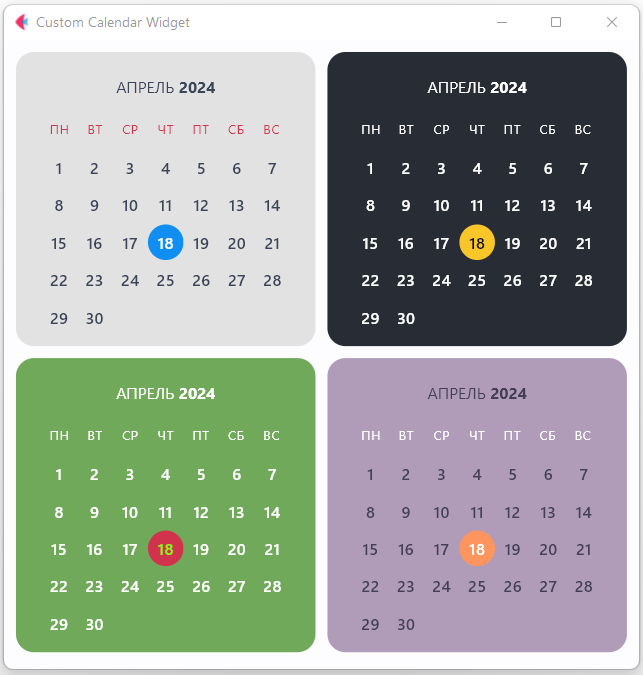
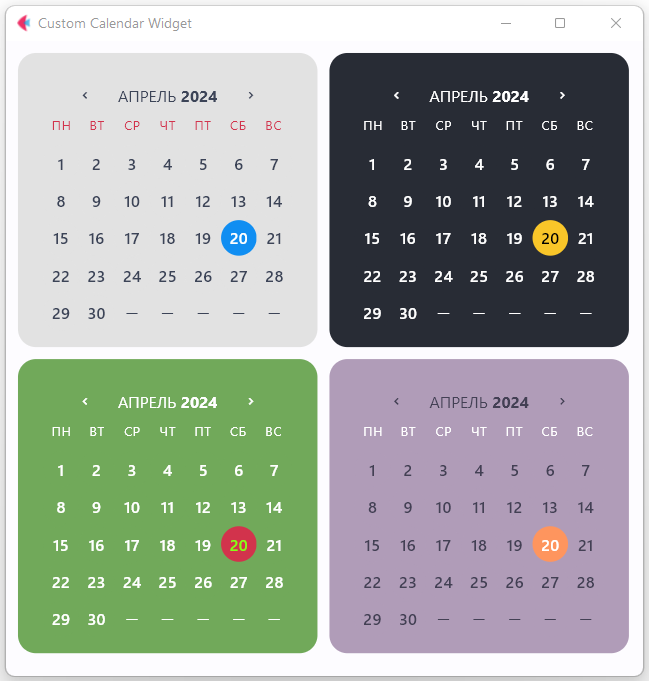
Я календарь переверну... теперь можно перевернуть календарь

diff --git a/CustomCalendar.py b/CustomCalendar.py
@@ -1,5 +1,6 @@
 import datetime, calendar
 import flet
+import copy
 
 
 class CustomCalendar(flet.Container):
@@ -8,18 +9,18 @@ class CustomCalendar(flet.Container):
     _current_day = datetime.date.today().day
     _first_day_in_month, _last_day_in_month = calendar.monthrange(_current_year, _current_month)
     _day_of_week = {0: "ПН", 1: "ВТ", 2: "СР", 3: "ЧТ", 4: "ПТ", 5: "СБ", 6: "ВС"}
-    _months = {0: "Январь", 1: "Февраль", 3: "Март", 4: "АПРЕЛЬ", 5: "Май", 6: "Июнь",
-               7: "Июль", 8: "Август", 9: "Сентябрь", 10: "Октябрь", 11: "Ноябрь", 12: "Декабрь"}
+    _months = {1: "ЯНВАРЬ", 2: "ФЕВРАЛЬ", 3: "МАРТ", 4: "АПРЕЛЬ", 5: "МАЙ", 6: "ИЮНЬ",
+               7: "ИЮЛЬ", 8: "АВГУСТ", 9: "СЕНТЯБРЬ", 10: "ОКТЯБРЬ", 11: "НОЯБРЬ", 12: "ДЕКАБРЬ"}
 
     def __init__(self, width: int, bgcolor="#e2e2e2",
                  font_color="#3c4457", font_color_accent="#ffffff",
                  accent_color="#108ef2", header_font_color="#d2334c",
-                 hover_color = "#eeeeee", border_radius=15):
+                 hover_color="#eeeeee", border_radius=15):
         super().__init__(
             # ширина виджета задаётся пользователем
             width=width,
-            # высота считается автоматом, header = width / 7, row = width / 8
-            # весь календарь это таблица 2 заголовочные строки + 5 строк на даты, 0.5 на отступы
+            # высота считается автоматом, заголовок = width / 7, строка = width / 8
+            # весь календарь это таблица 2 заголовочные строки + 5 строк на даты, ~0.5 на отступы
             height=width / 8 * 5 + width / 7 * 2.5,
             border_radius=border_radius,
             padding=flet.padding.only(0, width * 0.08, 0, 0),
@@ -35,24 +36,70 @@ class CustomCalendar(flet.Container):
         self.content = self._draw_base()
 
     def _draw_base(self):
+        day_container = flet.Container(
+            content=flet.Text(
+                value="",
+                text_align=flet.TextAlign.CENTER,
+                weight=flet.FontWeight.W_500,
+                size=self.font_size + 2,
+                color=self.font_color
+            ),
+            width=(self.width - self.width * 0.05) / 8,
+            height=self.width / 8,
+            alignment=flet.alignment.center,
+            shape=flet.BoxShape.CIRCLE,
+            on_hover=self._on_hover_date,
+            data=""
+        )
         custom_calendar = flet.Column(
             controls=[
-                # заголовок с названием месяца и годом
+                # заголовок с названием месяца и годом, кнопками для перелистывания календаря
                 flet.Row(
                     controls=[
-                        flet.Text(
-                            value=str(self._months.get(self._current_month)) + " ",
+                        flet.Container(flet.IconButton(
+                            icon=flet.icons.KEYBOARD_ARROW_LEFT_SHARP,
+                            height=self.width / 11,
+                            width=self.width / 7,
+                            icon_size=self.font_size,
+                            padding=0,
+                            icon_color=self.font_color,
+                            data="left_flip",
+                            on_click=self._flip_calendar
+                        ),
+                            height=self.width / 8,
+                            alignment=flet.alignment.center
+                        ),
+                        flet.Container(flet.Text(
+                            # value=str(self._months.get(self._current_month)) + " ",
+                            value="",
                             spans=[
-                                flet.TextSpan(str(self._current_year),
+                                flet.TextSpan("",
                                               flet.TextStyle(weight=flet.FontWeight.BOLD))
                                 ],
                             weight=flet.FontWeight.W_400,
                             color=self.font_color,
                             size=self.font_size + 2,
-                            height=self.width / 7,
-                        )
+                            text_align=flet.alignment.center,
+                        ),
+                            height=self.width / 8,
+                            alignment=flet.alignment.center
+                        ),
+                        flet.Container(flet.IconButton(
+                            icon=flet.icons.KEYBOARD_ARROW_RIGHT_SHARP,
+                            icon_size=self.font_size,
+                            height=self.width / 10,
+                            width=self.width / 7,
+                            padding=0,
+                            data="right_flip",
+                            on_click=self._flip_calendar,
+                            icon_color=self.font_color
+                        ),
+                            height=self.width / 8,
+                            alignment=flet.alignment.center
+                        ),
                     ],
-                    alignment=flet.MainAxisAlignment.CENTER
+                    alignment=flet.MainAxisAlignment.CENTER,
+                    vertical_alignment=flet.CrossAxisAlignment.START,
                 ),
                 # заголовок с днями недели
                 flet.Row(
@@ -71,7 +118,13 @@ class CustomCalendar(flet.Container):
                     height=self.width / 10,
                     # убирает лишние отступы между элементами Row
                     spacing=0
-                )
+                ),
+                # пять строк на даты, создаём их и распаковываем в controls
+                *[flet.Row(
+                    controls=[copy.deepcopy(day_container) for i in range(0, 7)],
+                    alignment=flet.MainAxisAlignment.CENTER,
+                    spacing=0
+                ) for i in range(0, 5)],
             ],
             # убирает лишние отступы между элементами Column
             spacing=0,
@@ -79,55 +132,58 @@ class CustomCalendar(flet.Container):
         self._fill_dates(custom_calendar)
         return custom_calendar
 
-    def _fill_dates(self, custom_calendar: flet.Column):
+    def _fill_dates(self, custom_calendar):
         day_counter = 1
-        day_bgcolor = self.bgcolor
-        day_font_color = self.font_color
-        day_data="just_a_day"
-
-        for row in range(0, 5):
-            current_row = flet.Row(alignment=flet.MainAxisAlignment.CENTER, spacing=0)
-            # if row == 4:
-            #     current_row.alignment = flet.MainAxisAlignment.START
-
-            for day in range(0, 7):
-                if day_counter == self._current_day:
-                    # для выделения текущего дня в календаре
-                    day_bgcolor = self.accent_color
-                    day_font_color = self.font_accent_color
-                    day_data="today"
-                if row == 0 and day < self._first_day_in_month:
-                    current_row.controls.append(flet.Container(width=(self.width - self.width * 0.05) / 8))
+        self._first_day_in_month, self._last_day_in_month = calendar.monthrange(self._current_year, self._current_month)
+        custom_calendar.controls[0].controls[1].content.value = self._months.get(self._current_month)
+        custom_calendar.controls[0].controls[1].content.spans[0].text = " " + str(self._current_year)
+        for row_id, row in enumerate(custom_calendar.controls):
+            # первые две строки это заголовки календаря
+            if row_id < 2:
+                continue
+            for column_id, column in enumerate(row.controls):
+                if row_id - 2 == 0 and column_id < self._first_day_in_month:
+                    column.content.value = "ꟷ"
+                    column.content.weight=flet.FontWeight.W_200
                 elif self._last_day_in_month >= day_counter:
-                    current_row.controls.append(flet.Container(
-                        content=flet.Text(
-                            value=str(day_counter),
-                            text_align=flet.TextAlign.CENTER,
-                            weight=flet.FontWeight.W_500,
-                            color=day_font_color,
-                            size=self.font_size + 2
-                        ),
-                        bgcolor=day_bgcolor,
-                        width=(self.width - self.width * 0.05) / 8,
-                        height=self.width / 8,
-                        alignment=flet.alignment.center,
-                        shape=flet.BoxShape.CIRCLE,
-                        on_hover=self._on_hover_date,
-                        data=day_data
-                    ))
+                    column.content.value = str(day_counter)
+                    column.content.weight = flet.FontWeight.W_500
+                    if day_counter == self._current_day and self._current_month == CustomCalendar._current_month \
+                            and self._current_year == CustomCalendar._current_year:
+                        column.bgcolor = self.accent_color
+                        column.content.color = self.font_accent_color
+                        column.data = "today"
+                    else:
+                        column.bgcolor = self.bgcolor
+                        column.content.color = self.font_color
+                        column.data = "just_a_day"
                     day_counter += 1
-                    day_bgcolor = self.bgcolor
-                    day_font_color = self.font_color
-                    day_data="just_a_day"
                 else:
-                    current_row.controls.append(flet.Container(width=(self.width - self.width * 0.05) / 8))
-            custom_calendar.controls.append(current_row)
+                    column.content.value = "ꟷ"
+                    column.content.weight = flet.FontWeight.W_200
 
-    def _on_hover_date(self, e):
+    def _on_hover_date(self, e: flet.ControlEvent):
         # Когда мышь на элементе e.data = "true"
         e.control.bgcolor = self.hover_color if e.data == "true" and e.control.data != "today" else \
             (self.accent_color if e.control.data == "today" else self.bgcolor)
         e.control.update()
+
+    def _flip_calendar(self, e: flet.ControlEvent):
+        if e.control.data == "left_flip":
+            if self._current_month - 1 > 0:
+                self._current_month = self._current_month - 1
+            else:
+                self._current_month = 12
+                self._current_year = self._current_year - 1
+        elif e.control.data == "right_flip":
+            if self._current_month + 1 < 12:
+                self._current_month = self._current_month + 1
+            else:
+                self._current_month = 1
+                self._current_year = self._current_year + 1
+        self._fill_dates(self.content)
+        self.content.update()
+
 
 def main_page(page: flet.Page):
     page.title = "Custom Calendar Widget"
@@ -142,6 +198,7 @@ def main_page(page: flet.Page):
     my_calendar3 = CustomCalendar(width=250,
                                   bgcolor="#71a95a",
                                   font_color="#ffffff",
+                                  hover_color="#34d409",
                                   font_color_accent="#84ff17",
                                   accent_color="#d2334c",
                                   header_font_color="#ffffff")
